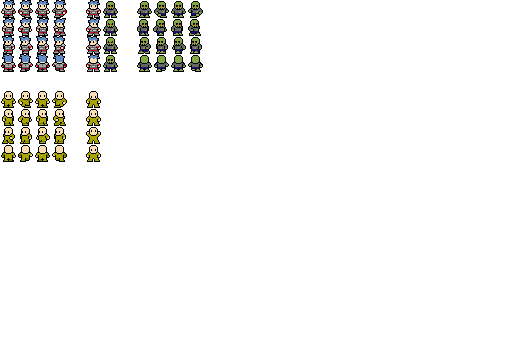
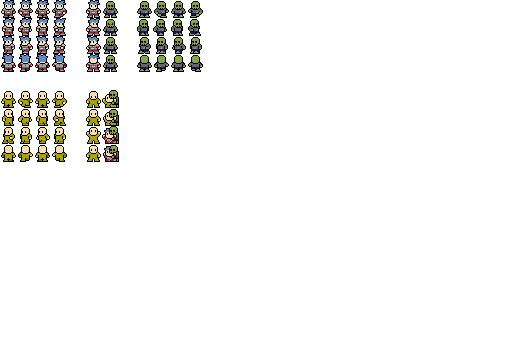
Zombie eating, chain panic etc
Player loss not complete

Changed region(s): [[0.1808, 0.2647, 0.2411, 0.4706]]

diff --git a/README.md b/README.md
@@ -8,6 +8,8 @@ What happens when you mix pac-man and snake, then add zombies?
 * Level design (incl z count)
 * Follow radius
 * Path finding
+* Eaten survivors turn into zombie
+* Fed zombies get quicker
 
 ##Todo:
 Basics
